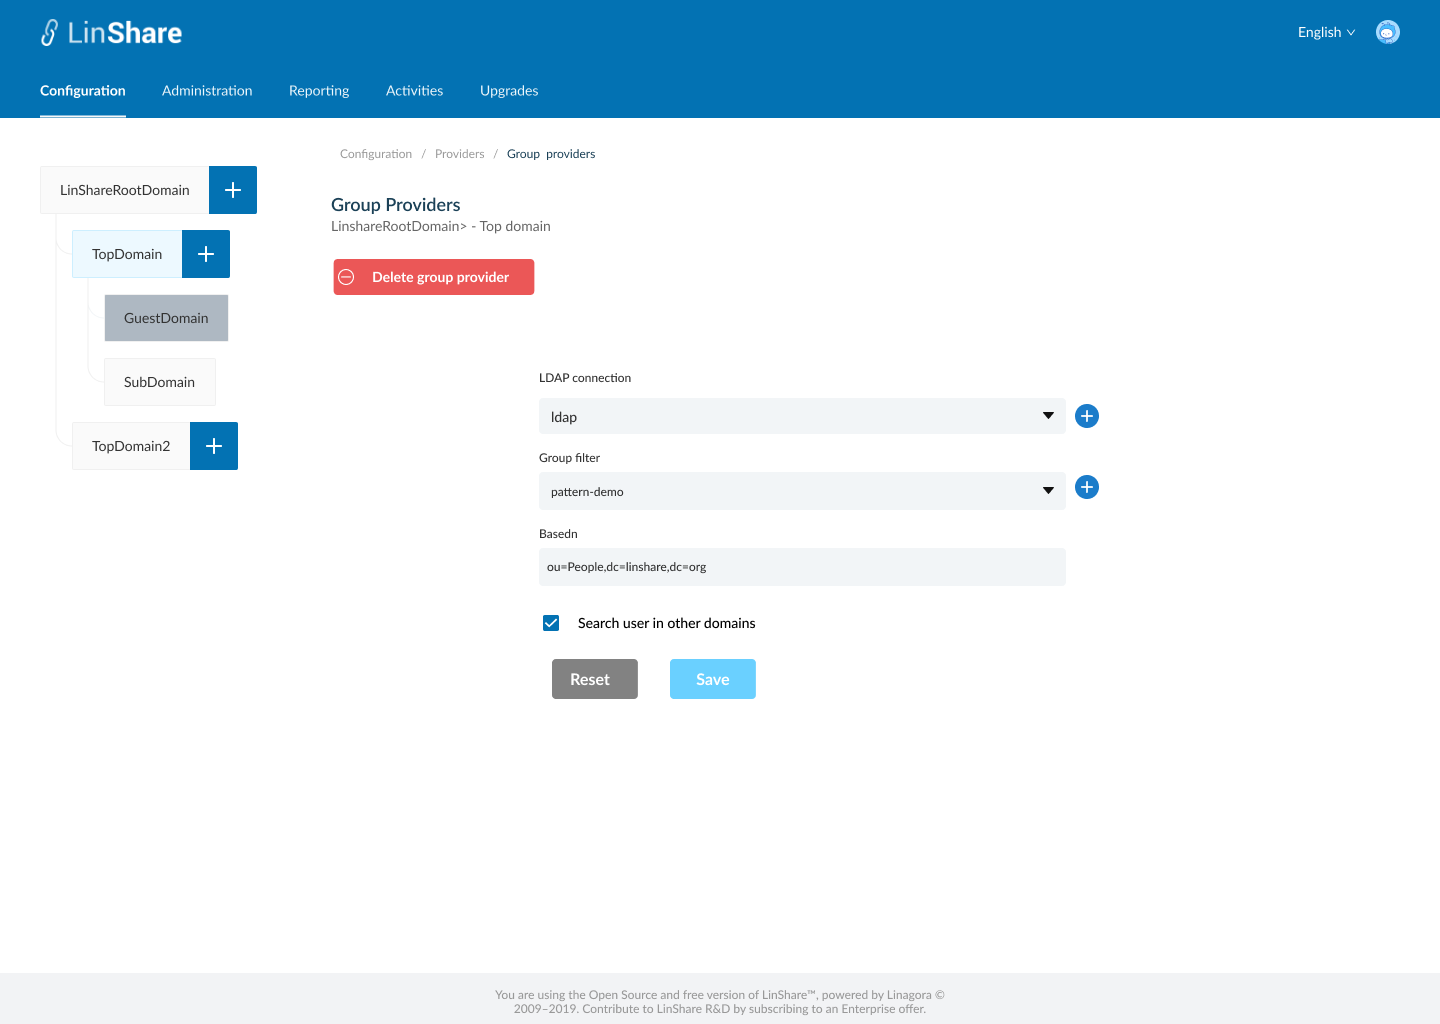
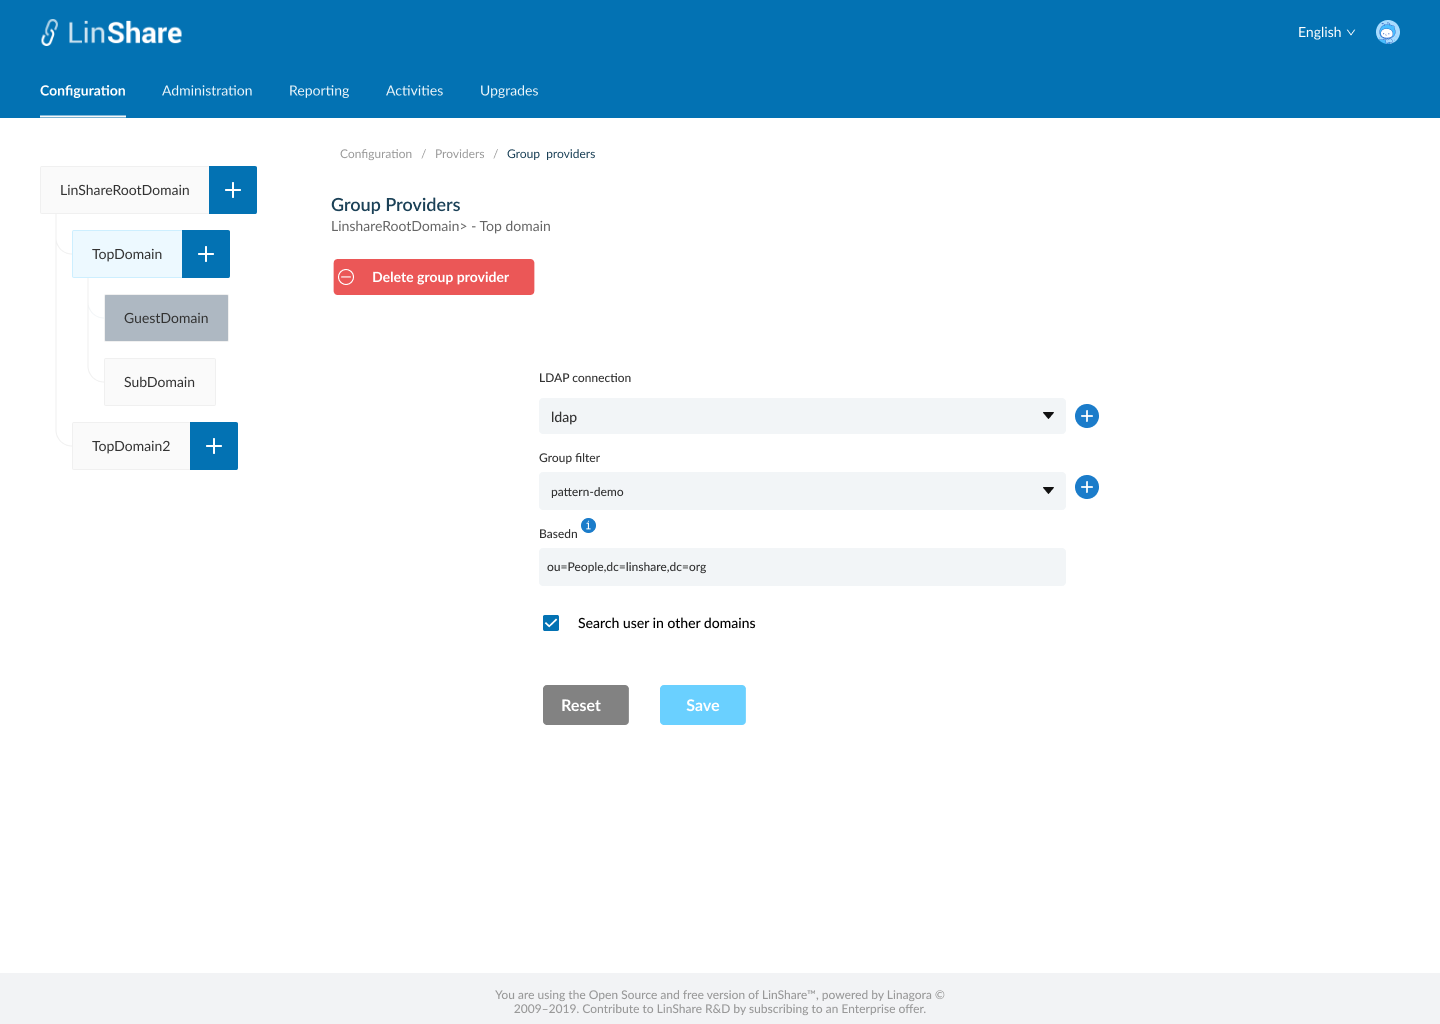
Update documentation/EN/epics/new-admin-portal/story-27-admin-manage-group-provider.md, documentation/EN/epics/new-admin-portal/mockups/27.2.png, documentation/EN/epics/new-admin-portal/mockups/27.3.png, documentation/EN/epics/new-admin-portal/mockups/27.4.png files

Changed region(s): [[0.375, 0.625, 0.5312, 0.7188]]

diff --git a/documentation/EN/epics/new-admin-portal/story-27-admin-manage-group-provider.md b/documentation/EN/epics/new-admin-portal/story-27-admin-manage-group-provider.md
@@ -22,12 +22,13 @@
 
 **UC1. Create LDAP group Provider** 
 - I select Group Providers, if the current selected domain doesn't have a group provider, screen 2 will be displayed.
-- When i click button "Add Group provider", there will be a drop-down list with 2 options: LDAP provider, Twake provider
-- I select LDAP provider, screen 3 will be displayed, the button Add group provider will be disabled.
+- When i click button "Add Group provider", screen 3 will be displayed, the button Add group provider will be disabled.
 - To add an LDAP group provider, i need to fill the followings:
    - LDAP connection: mandatory field, a drop-downlist which contain current LDAP connections list. There is a button next to this field that when i click on, i am navigated to Create LDAP connection screen
+   - After i create a LDAP connection successfully, i am navigated back to this screen
    - Group filter:  mandatory field,  a drop-down list which contain current LDAP group filter list. There is a button next to this field that when i click on, i am navigated to Create LDAP group filter Screen 
-   - Base dn:  a text field and mandatory.
+   - After i create a group filter successfully, i am navigated back to this screen
+   - Base dn:  a text field and mandatory.  When i hover the tooltip, there will be a legend: "LinShare will start looking for group members from this position in your LDAP."
    - Search in other domains: A checkbox, if i select, i will search users who are members of the remote LDAP groups in others domains than my own domain, according to the domain policies. 
 - When i click button Save, the system will validate if any mandatory field is blank, it will be highlighted in red and a message:"[field name] cannot be blank"
 - If there is no error, the Group provider is saved and there will be a successful notification, I am redirected to Screen 4. 
@@ -36,7 +37,7 @@
 **UC2. Edit LDAP Group Provider**
 
 - I select Group Providers, if current selected domain already had an group provider, screen 4 will be displayed.
-- On this screen, i can edit all fields: LDAP connection, group filter, Basedn, chekcbox Search user in other domains. 
+- On this screen, i can edit all fields: LDAP connection, group filter, Basedn, checkbox Search user in other domains. 
 - I click button Save, the system will validate if any mandatory field is blank, it will be highlighted in red and a message:"[field name] cannot be blank"
 - If there is no error, the Group provider is updated and there will be a successful notification. 
 - If i click button Reset, all the fields will be reset to the before-updated values.
